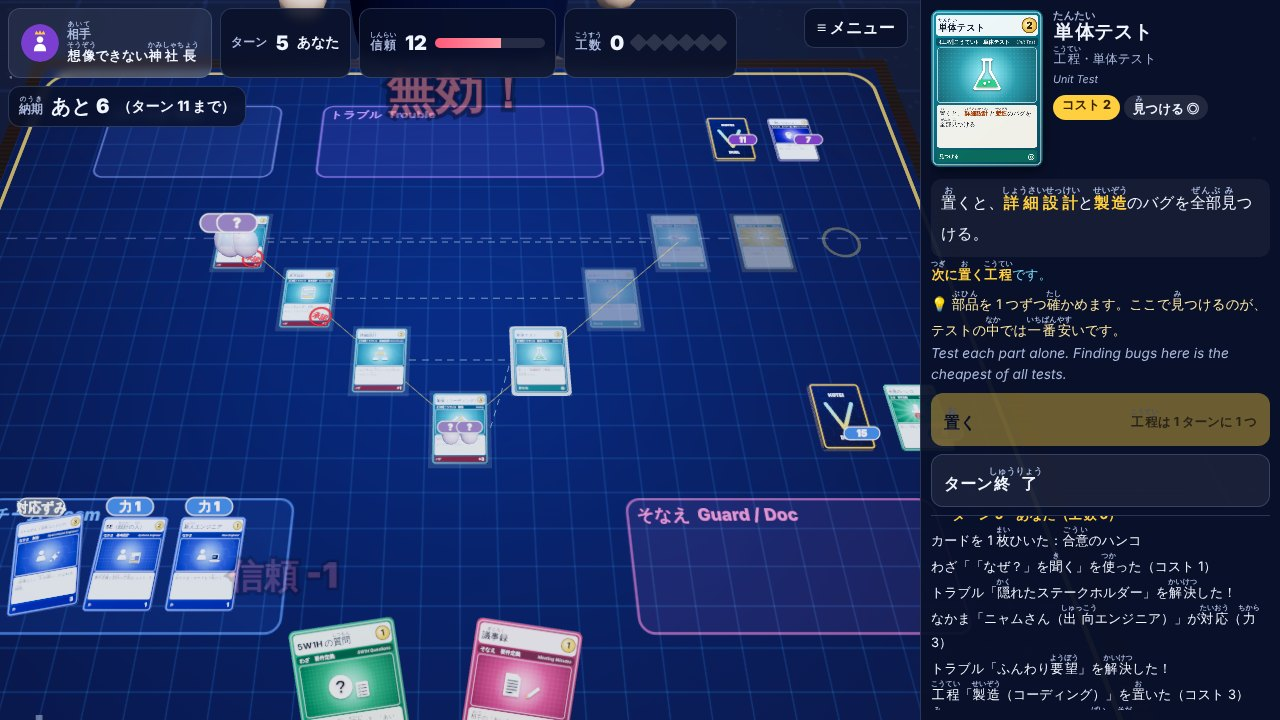
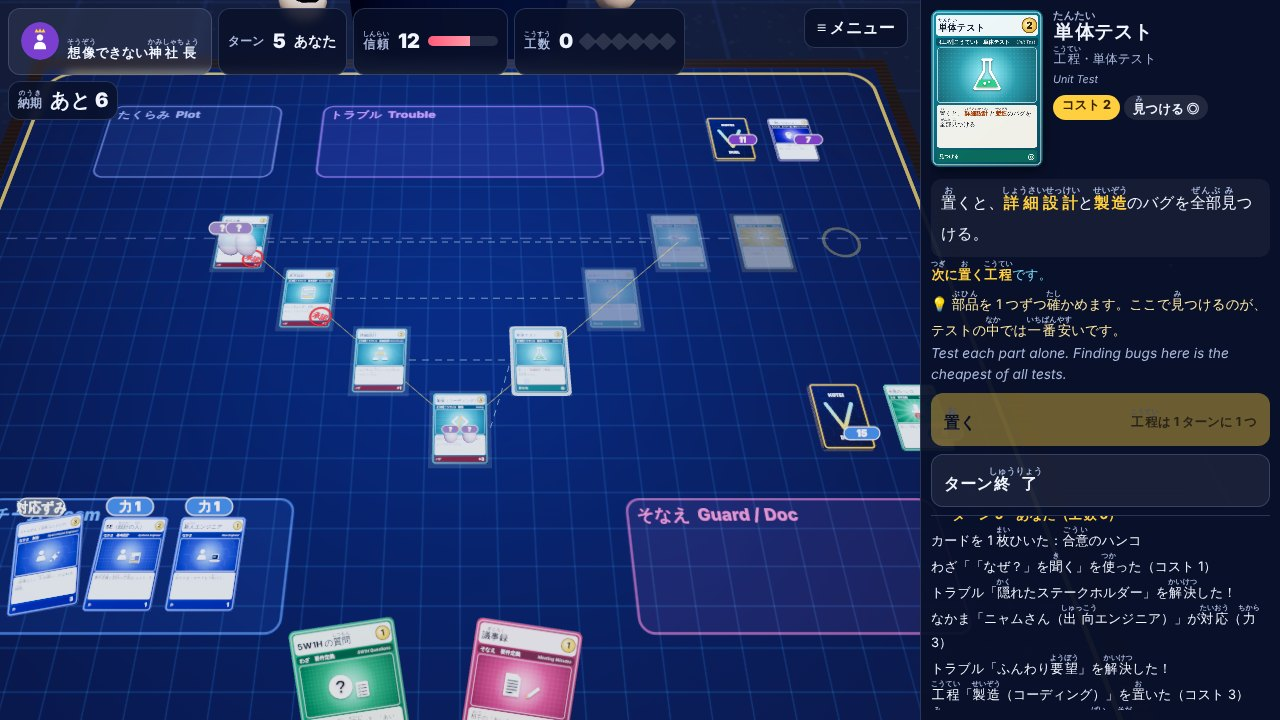
kotei-duel: compact PC HUD, cleaner preview pictures
Claude-Session: https://claude.ai/code/session_01H98kDvxtz7sk2YwgiidS14

diff --git a/kotei-duel/index.html b/kotei-duel/index.html
@@ -85,6 +85,7 @@
   .gems i { width: 13px; height: 13px; transform: rotate(45deg); border-radius: 2px; background: rgba(255,255,255,0.14); }
   .gems i.on { background: linear-gradient(135deg, #fff6c9, var(--accent)); box-shadow: 0 0 6px rgba(255, 207, 63, 0.6); }
   #h-deadline.warn .v { color: var(--hot); }
+  #h-deadline-t { display: none; }
   #h-turn .v { color: var(--ice); }
   #h-enemy { gap: 8px; max-width: 210px; }
   #h-enemy .k { display: none; }
